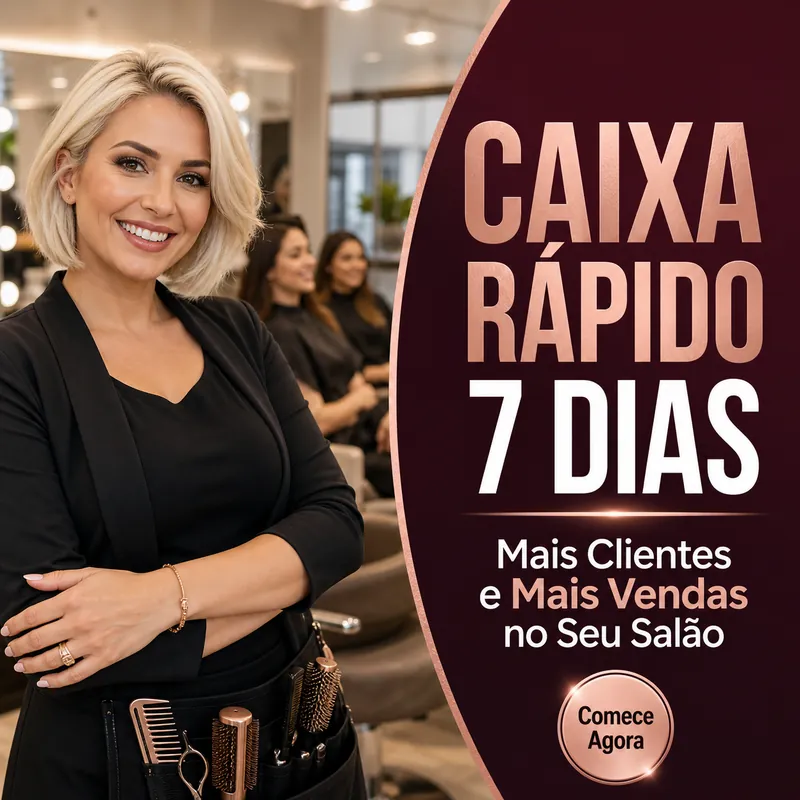
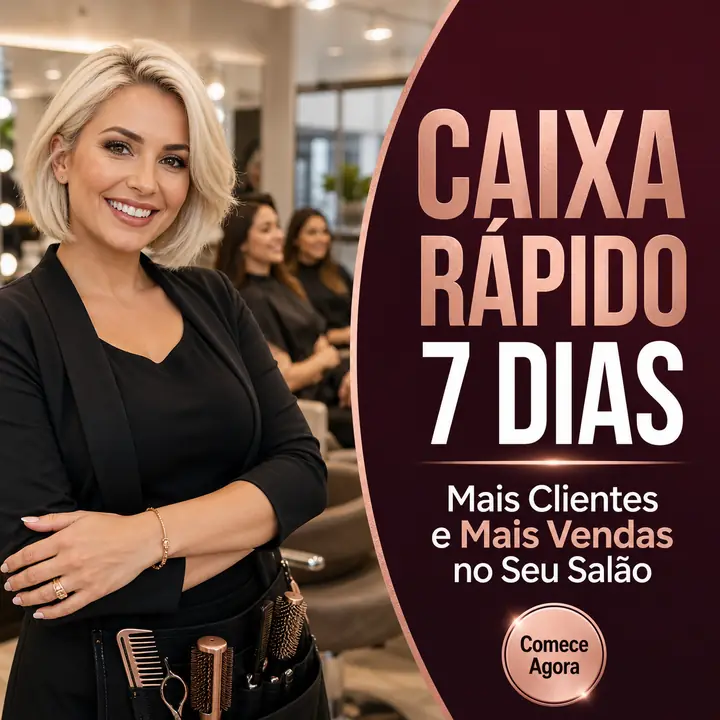
Otimizacao mobile: hero responsiva, imagens mais leves, content-visibility

diff --git a/index.html b/index.html
@@ -11,9 +11,9 @@
 <meta property="og:type" content="website">
 <meta property="og:title" content="Caixa Rápido — 7 Dias">
 <meta property="og:description" content="Em 7 dias, ações simples para atrair clientes e vender mais no salão de beleza.">
-<meta property="og:image" content="https://desafio.marceloemilene.com/hero-agenda.webp">
+<meta property="og:image" content="https://curso.marceloemilene.com/hero-agenda.webp">
 <meta property="og:url" content="https://curso.marceloemilene.com/">
-<link rel="preload" as="image" href="hero-agenda.webp" fetchpriority="high">
+<link rel="preload" as="image" href="hero-agenda.webp" imagesrcset="hero-agenda-480.webp 480w, hero-agenda-720.webp 720w, hero-agenda.webp 864w" imagesizes="(max-width:980px) min(340px, calc(100vw - 40px)), 45vw" fetchpriority="high">
 <link rel="preconnect" href="https://pay.hotmart.com">
 <style>
 :root{
@@ -34,6 +34,7 @@ h1,h2,h3{margin:0;line-height:1.08;font-weight:700;letter-spacing:-.02em}
 p{margin:0}
 .wrap{width:100%;max-width:var(--max);margin:0 auto;padding:0 20px}
 .sec{padding:72px 0}
+.sec.cv{content-visibility:auto;contain-intrinsic-size:auto 900px}
 [id]{scroll-margin-top:64px}
 .sec-creme{background:var(--creme);color:var(--tinta)}
 .sec-creme .rotulo{color:var(--ouro-escuro)}
@@ -235,6 +236,7 @@ footer .copy{font-size:12px;color:#6d6659}
 }
 @media (max-width:640px){
   .sec{padding:54px 0}
+  header{backdrop-filter:none;background:rgba(9,9,9,.97)}
   .hd-meio{display:none}
   .numeros{grid-template-columns:1fr 1fr;gap:22px 14px}
   .dias{grid-template-columns:1fr 1fr}
@@ -264,7 +266,7 @@ footer .copy{font-size:12px;color:#6d6659}
       <h1>Atraia mais clientes.<br><span class="ouro">Venda mais</span><br>no seu salão.</h1>
     </div>
     <a class="hero-img ck" href="https://pay.hotmart.com/U106844978T?sck=site_caixa_rapido" aria-label="Conheça o desafio Caixa Rápido 7 Dias">
-      <img src="hero-agenda.webp" width="864" height="1080" alt="Caixa Rápido — desafio de 7 dias: não é só sobre ter mais agenda" fetchpriority="high" decoding="async">
+      <img src="hero-agenda.webp" srcset="hero-agenda-480.webp 480w, hero-agenda-720.webp 720w, hero-agenda.webp 864w" sizes="(max-width:980px) min(340px, calc(100vw - 40px)), 45vw" width="864" height="1080" alt="Caixa Rápido — desafio de 7 dias: não é só sobre ter mais agenda" fetchpriority="high" decoding="async">
     </a>
     <div class="hero-b">
       <p class="sub">Em 7 dias, aprenda ações simples para atrair clientes e aproveitar melhor cada atendimento — sem trabalhar mais horas ou vender de forma insistente.</p>
@@ -310,7 +312,7 @@ footer .copy{font-size:12px;color:#6d6659}
 </section>
 
 <!-- CAIXA MAIS FORTE -->
-<section class="sec sec-creme">
+<section class="sec cv sec-creme">
   <div class="wrap duas">
     <div>
       <p class="rotulo rv">Pequenas vendas. Um caixa mais forte.</p>
@@ -321,7 +323,7 @@ footer .copy{font-size:12px;color:#6d6659}
 </section>
 
 <!-- CRONOGRAMA -->
-<section class="sec sec-creme" style="padding-top:0">
+<section class="sec cv sec-creme" style="padding-top:0">
   <div class="wrap">
     <p class="rotulo rv">Cronograma do Caixa Rápido</p>
     <h2 class="titulo rv" style="color:var(--tinta)">7 dias. 7 missões.<br>Um caminho visual até seu plano de vendas.</h2>
@@ -349,7 +351,7 @@ footer .copy{font-size:12px;color:#6d6659}
 </section>
 
 <!-- CTA MEIO -->
-<section class="sec centro">
+<section class="sec cv centro">
   <div class="wrap">
     <p class="rotulo rv">Aplicação direta no salão</p>
     <h2 class="titulo rv">Uma missão simples por dia.<br>Uma estratégia para continuar vendendo.</h2>
@@ -360,7 +362,7 @@ footer .copy{font-size:12px;color:#6d6659}
 </section>
 
 <!-- BÔNUS -->
-<section class="sec" style="padding-top:0">
+<section class="sec cv" style="padding-top:0">
   <div class="wrap">
     <p class="rotulo rv">Mais recursos para colocar em prática</p>
     <h2 class="titulo rv">Você também recebe 2 bônus.</h2>
@@ -397,9 +399,9 @@ footer .copy{font-size:12px;color:#6d6659}
 </section>
 
 <!-- PARA VOCÊ -->
-<section class="sec">
+<section class="sec cv">
   <div class="wrap parvoce">
-    <img class="rv" src="oferta.webp" width="800" height="800" alt="Caixa Rápido 7 Dias — mais clientes e mais vendas no seu salão" loading="eager" decoding="async">
+    <img class="rv" src="oferta.webp" width="720" height="720" alt="Caixa Rápido 7 Dias — mais clientes e mais vendas no seu salão" loading="eager" decoding="async">
     <div>
       <p class="rotulo rv">Este desafio é para você</p>
       <h2 class="titulo rv">Você já tem conhecimento e talento. Agora precisa de uma estratégia.</h2>
@@ -415,7 +417,7 @@ footer .copy{font-size:12px;color:#6d6659}
 </section>
 
 <!-- QUEM ENSINA -->
-<section class="sec" style="padding-top:0">
+<section class="sec cv" style="padding-top:0">
   <div class="wrap ensina">
     <img class="rv" src="casal.webp" width="900" height="600" alt="Marcelo e Milene, responsáveis pelo Caixa Rápido 7 Dias" loading="eager" decoding="async">
     <div>
@@ -429,7 +431,7 @@ footer .copy{font-size:12px;color:#6d6659}
 </section>
 
 <!-- OFERTA -->
-<section class="sec oferta">
+<section class="sec cv oferta">
   <div class="wrap centro">
     <p class="rotulo rv">Sua decisão pode começar hoje</p>
     <h2 class="titulo rv">Entre no Caixa Rápido 7 Dias.</h2>
@@ -473,7 +475,7 @@ footer .copy{font-size:12px;color:#6d6659}
 </section>
 
 <!-- FAQ -->
-<section class="sec">
+<section class="sec cv">
   <div class="wrap">
     <p class="rotulo rv">Dúvidas frequentes</p>
     <h2 class="titulo rv">Antes de começar</h2>
@@ -492,7 +494,7 @@ footer .copy{font-size:12px;color:#6d6659}
 </section>
 
 <!-- CAPTURA -->
-<section class="sec" id="captura" style="background:#0c0b09">
+<section class="sec cv" id="captura" style="background:#0c0b09">
   <div class="wrap captura">
     <div>
       <p class="rotulo rv">Ainda não está pronta para comprar?</p>
@@ -512,7 +514,7 @@ footer .copy{font-size:12px;color:#6d6659}
 </section>
 
 <!-- PRIVACIDADE -->
-<section class="sec sec-creme" id="privacidade">
+<section class="sec cv sec-creme" id="privacidade">
   <div class="wrap">
     <p class="rotulo rv">Política de privacidade</p>
     <h2 class="titulo rv" style="color:var(--tinta)">Seus dados, seus direitos.</h2>
